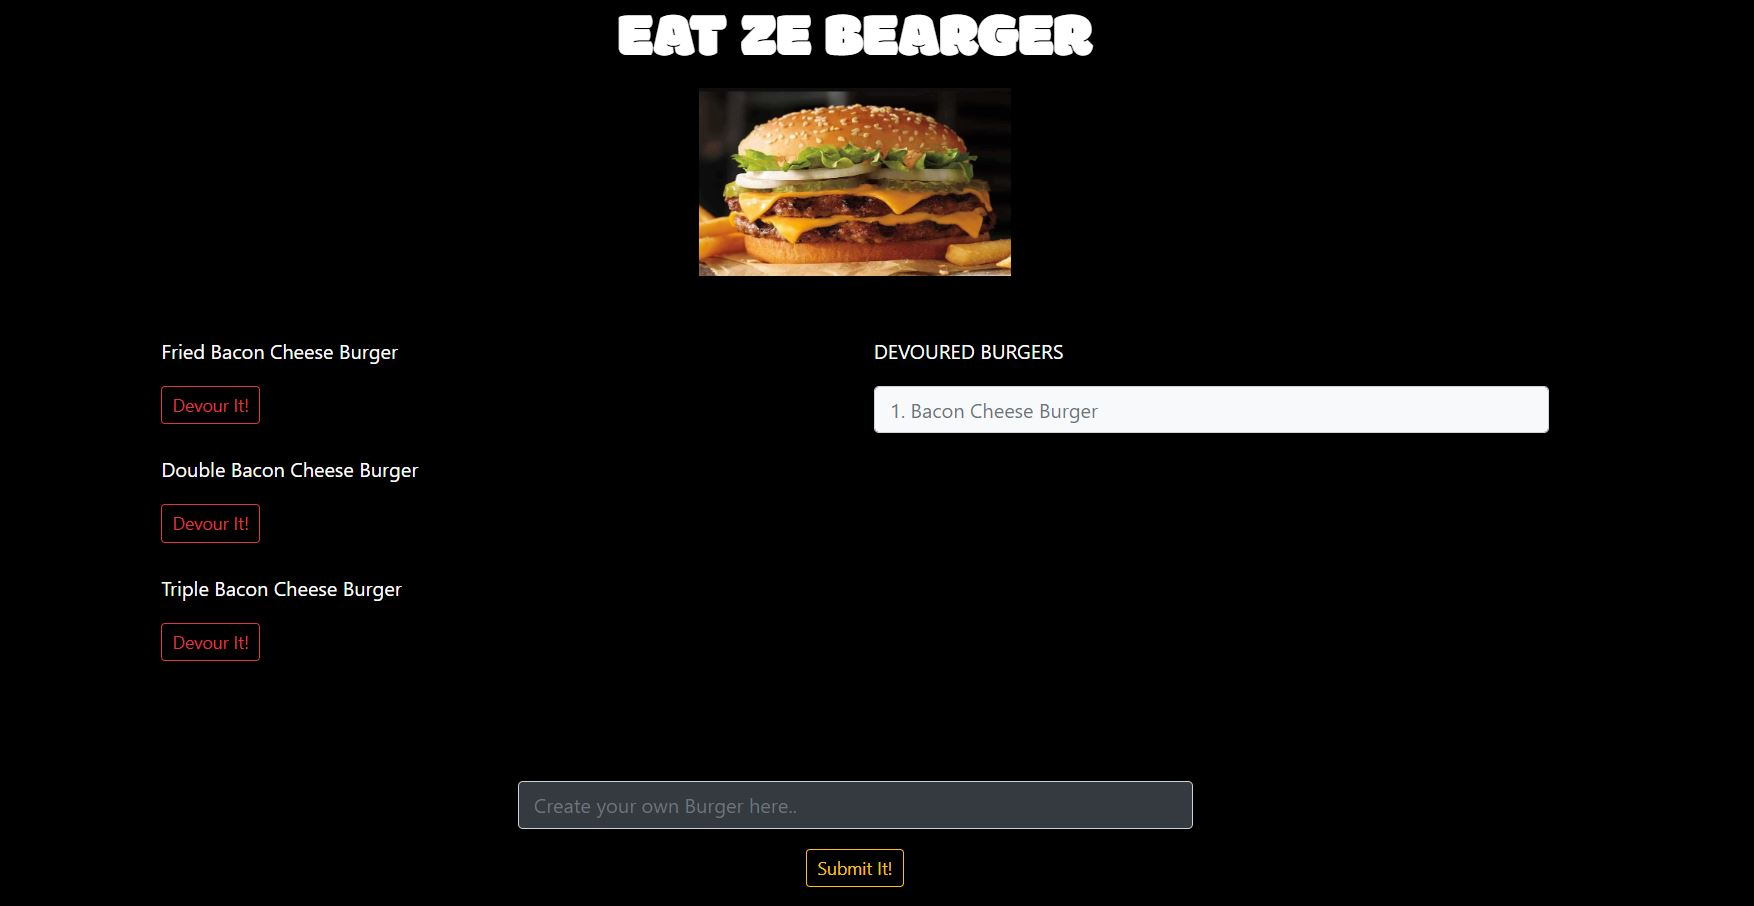
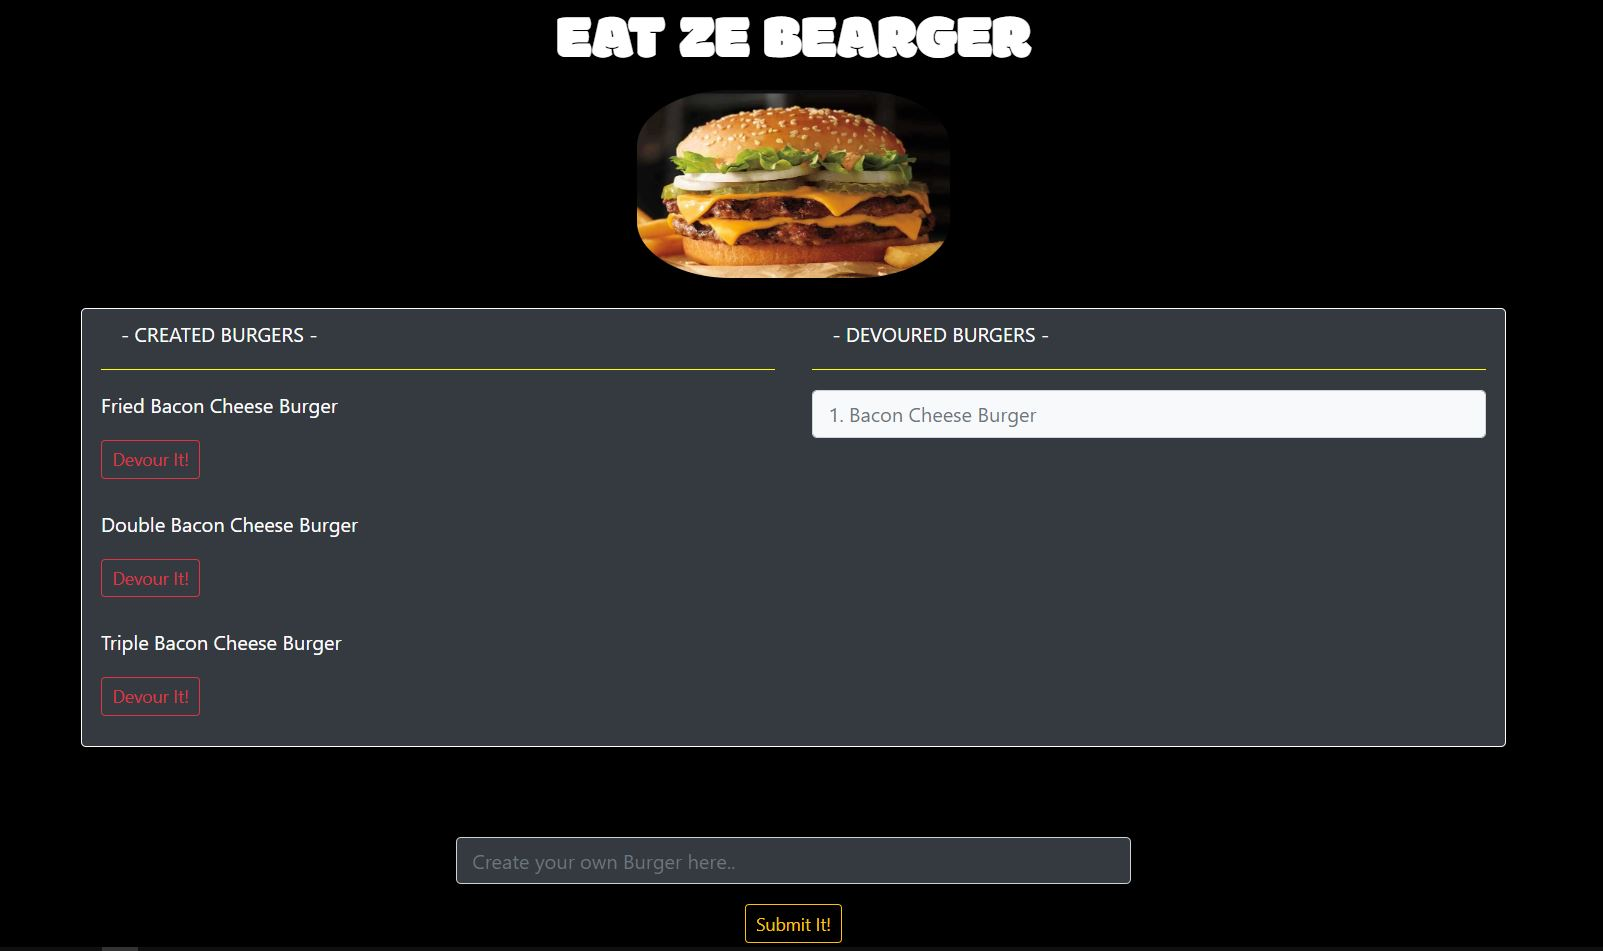
final layout

diff --git a/public/assets/css/burgerStyle.css b/public/assets/css/burgerStyle.css
@@ -13,6 +13,7 @@ height: 150px;
 p {
 
     color: white;
+    /* font-family: 'Modak', cursive; */
     /* text-align: center; */
 }
 
@@ -23,10 +24,20 @@ h1 {
     font-size: 50px;
     /* font-weight: bold; */
 }
-/* 
-.db_br {
-    text-align: center;
+
+hr {
+    border-color: yellow;
 }
+
+img {
+    /* border-color: white; */
+    border-radius: 30%;
+}
+
+/* .db_bur {
+    color: white;
+    font-family: 'Modak', cursive;
+} */
 /* ::placeholder { */
     /* color: white; !important;
 } */
